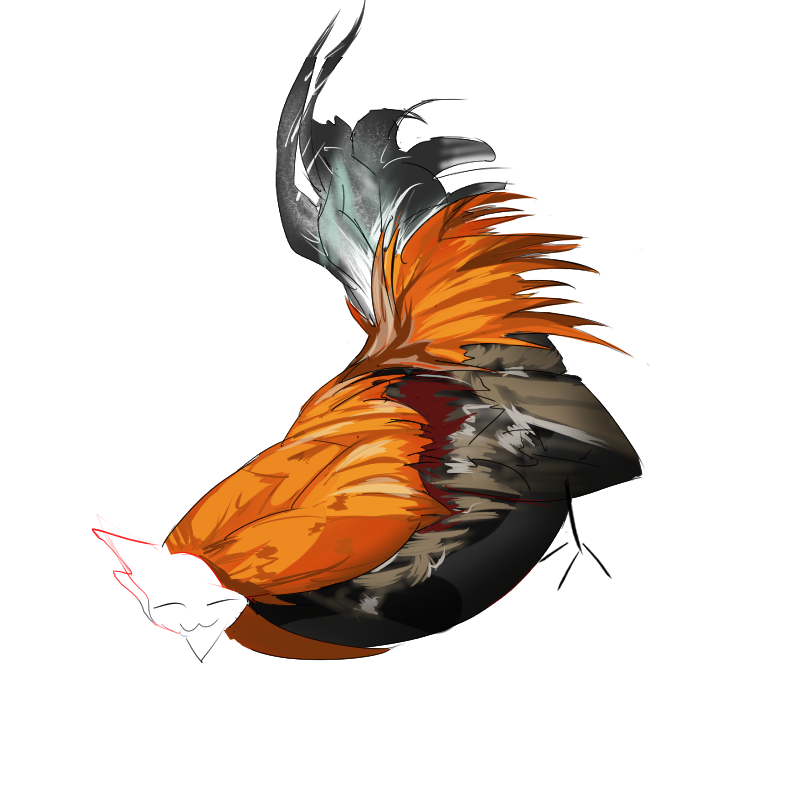
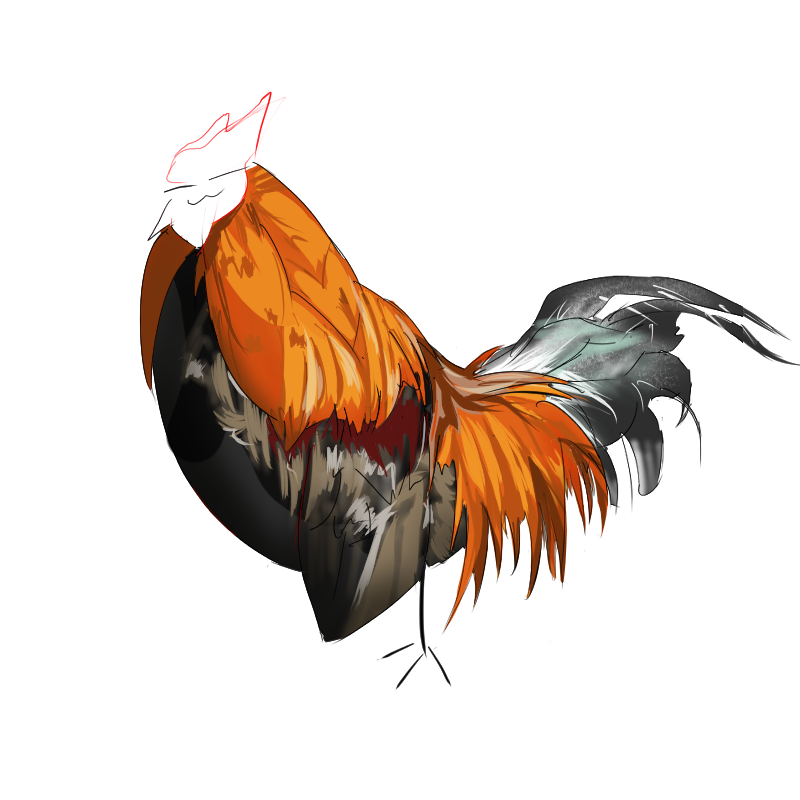
Update site layout and content

diff --git a/layouts/_partials/header.html b/layouts/_partials/header.html
@@ -1,0 +1,114 @@
+<header class="header">
+    <nav class="header-nav">
+        <div class="logo">
+            {{- $label_text := (site.Params.label.text | default site.Title) }}
+            {{- if site.Title }}
+            <span class="site-title">
+                {{- if site.Params.label.icon }}
+                {{- $img := resources.Get site.Params.label.icon }}
+                {{- if $img }}
+                    {{- $processableFormats := (slice "jpg" "jpeg" "png" "tif" "bmp" "gif") -}}
+                    {{- if hugo.IsExtended -}}
+                        {{- $processableFormats = $processableFormats | append "webp" -}}
+                    {{- end -}}
+                    {{- $prod := (hugo.IsProduction | or (eq site.Params.env "production")) }}
+                    {{- if and (in $processableFormats $img.MediaType.SubType) (eq $prod true)}}
+                        {{- if site.Params.label.iconHeight }}
+                            {{- $img = $img.Resize (printf "x%d" site.Params.label.iconHeight) }}
+                        {{ else }}
+                            {{- $img = $img.Resize "x30" }}
+                        {{- end }}
+                    {{- end }}
+                    <img src="{{ $img.Permalink }}" alt="" aria-label="logo"
+                        height="{{- site.Params.label.iconHeight | default "30" -}}">
+                {{- else }}
+                <img src="{{- site.Params.label.icon | absURL -}}" alt="" aria-label="logo"
+                    height="{{- site.Params.label.iconHeight | default "30" -}}">
+                {{- end -}}
+                {{- else if hasPrefix site.Params.label.iconSVG "<svg" }}
+                    {{ site.Params.label.iconSVG | safeHTML }}
+                {{- end -}}
+                {{- $label_text -}}
+            </span>
+            {{- end }}
+
+            {{- $lsenabled := (or (not site.Params.disableThemeToggle) (and (not site.Params.disableLangToggle) (hugo.IsMultilingual))) }}
+            {{- if $lsenabled }}
+            <div class="logo-switches">
+                {{- if (not site.Params.disableThemeToggle) }}
+                <button id="theme-toggle" class="theme-toggle" accesskey="t" title="(Alt + T)" aria-label="Toggle theme">
+                    <svg class="moon" xmlns="http://www.w3.org/2000/svg" width="17" height="17" viewBox="0 0 24 24"
+                        fill="none" stroke="currentColor" stroke-width="2" stroke-linecap="round"
+                        stroke-linejoin="round">
+                        <path d="M21 12.79A9 9 0 1 1 11.21 3 7 7 0 0 0 21 12.79z"></path>
+                    </svg>
+                    <svg class="sun" xmlns="http://www.w3.org/2000/svg" width="17" height="17" viewBox="0 0 24 24"
+                        fill="none" stroke="currentColor" stroke-width="2" stroke-linecap="round"
+                        stroke-linejoin="round">
+                        <circle cx="12" cy="12" r="5"></circle>
+                        <line x1="12" y1="1" x2="12" y2="3"></line>
+                        <line x1="12" y1="21" x2="12" y2="23"></line>
+                        <line x1="4.22" y1="4.22" x2="5.64" y2="5.64"></line>
+                        <line x1="18.36" y1="18.36" x2="19.78" y2="19.78"></line>
+                        <line x1="1" y1="12" x2="3" y2="12"></line>
+                        <line x1="21" y1="12" x2="23" y2="12"></line>
+                        <line x1="4.22" y1="19.78" x2="5.64" y2="18.36"></line>
+                        <line x1="18.36" y1="5.64" x2="19.78" y2="4.22"></line>
+                    </svg>
+                </button>
+                {{- end }}
+
+                {{- if (not site.Params.disableLangToggle) }}
+                    {{- $lang := .Lang}}
+                    {{- with site.Home.Translations }}
+                    {{- $separator := or $label_text (not site.Params.disableThemeToggle)}}
+                    {{- if $separator }}<span class="nav-sep">|</span>{{ end }}
+                    <ul class="lang-menu">
+                        {{- range . -}}
+                        {{- if ne $lang .Lang }}
+                        <li>
+                            <a href="{{- .Permalink -}}" title="{{ .Language.Params.languageAltTitle | default (.Language.LanguageName | emojify) | default (.Lang | title) }}"
+                                aria-label="{{ .Language.LanguageName | default (.Lang | title) }}">
+                                {{- if (and site.Params.displayFullLangName (.Language.LanguageName)) }}
+                                {{- .Language.LanguageName | emojify -}}
+                                {{- else }}
+                                {{- .Lang | title -}}
+                                {{- end -}}
+                            </a>
+                        </li>
+                        {{- end -}}
+                        {{- end}}
+                    </ul>
+                    {{- end }}
+                {{- end }}
+            </div>
+            {{- end }}
+        </div>
+        {{- $currentPage := . }}
+        <ul id="menu" class="menu">
+            {{- range site.Menus.main }}
+            {{- $menu_item_url := (cond (strings.HasSuffix .URL "/") .URL (printf "%s/" .URL) ) | absLangURL }}
+            {{- $page_url:= $currentPage.Permalink | absLangURL }}
+            {{- $is_search := eq (site.GetPage .KeyName).Layout `search` }}
+            <li>
+                <a href="{{ .URL | absLangURL }}" title="{{ .Title | default .Name }} {{- cond $is_search (" (Alt + /)" | safeHTMLAttr) ("" | safeHTMLAttr ) }}"
+                {{- cond $is_search (" accesskey=/" | safeHTMLAttr) ("" | safeHTMLAttr ) }}>
+                    <span {{- if eq $menu_item_url $page_url }} class="active" {{- end }}>
+                        {{- .Pre }}
+                        {{- .Name -}}
+                        {{ .Post -}}
+                    </span>
+                    {{- if (findRE "://" .URL) }}&nbsp;
+                    <svg fill="none" shape-rendering="geometricPrecision" stroke="currentColor" stroke-linecap="round"
+                        stroke-linejoin="round" stroke-width="2.5" viewBox="0 0 24 24" height="12" width="12">
+                        <path d="M18 13v6a2 2 0 01-2 2H5a2 2 0 01-2-2V8a2 2 0 012-2h6"></path>
+                        <path d="M15 3h6v6"></path>
+                        <path d="M10 14L21 3"></path>
+                    </svg>
+                    {{- end }}
+                </a>
+            </li>
+            {{- end }}
+        </ul>
+    </nav>
+</header>

diff --git a/layouts/home.html b/layouts/home.html
@@ -4,7 +4,7 @@
 {{- partial "index_profile.html" . }}
 {{- else }} {{/* if not profileMode */}}
 
-{{- if not .IsHome | and .Title }}
+{{- if .Title }}
 <header class="page-header">
   {{- partial "breadcrumbs.html" . }}
   <h1>
@@ -47,12 +47,6 @@
 
 {{- $paginator := .Paginate $pages.ByDate.Reverse 5 }}
 
-{{- if and .IsHome site.Params.homeInfoParams (eq $paginator.PageNumber 1) }}
-<div class="post-content md-content">
-  {{ site.Params.homeInfoParams.Content | .RenderString (dict "display" "block") }}
-</div>
-{{- end }}
-
 {{- $term := .Data.Term }}
 {{- range $index, $page := $paginator.Pages }}
 
@@ -62,10 +56,7 @@
 {{- end }}
 {{- $class := "post-entry" }}
 
-{{- $user_preferred := or site.Params.disableSpecial1stPost site.Params.homeInfoParams }}
-{{- if (and $.IsHome (eq $paginator.PageNumber 1) (eq $index 0) (not $user_preferred)) }}
-{{- $class = "first-entry" }}
-{{- else if $term }}
+{{- if $term }}
 {{- $class = "post-entry tag-entry" }}
 {{- end }}
 

diff --git a/assets/css/extended/site-title.css b/assets/css/extended/site-title.css
@@ -1,0 +1,7 @@
+.logo .site-title {
+    font-size: 24px;
+    font-weight: 700;
+    display: flex;
+    align-items: center;
+    column-gap: 0.55rem;
+}

diff --git a/content/art/20260912-084840/index.md b/content/art/20260912-084840/index.md
@@ -1,13 +1,13 @@
 +++
-title = "もちテスト"
+title = "もち"
 date = '2026-09-12T08:48:40.0321216+09:00'
 draft = false
 entryType = "image"
 
 [cover]
 image = "image.png"
-alt = "もちテスト"
+alt = "もち"
 hiddenInSingle = true
 +++
 
-![もちテスト](image.png)
+![もち](image.png)

diff --git a/content/notes/20260912-082334.md b/content/notes/20260912-082334.md
@@ -1,0 +1,8 @@
++++
+title = "顔が隠れるくらい髪が長い"
+date = '2026-09-05T21:30:33.0280078+09:00'
+draft = false
+entryType = "article"
++++
+
+意外といい香りがする

diff --git a/content/shorts/20260912-082251.md b/content/shorts/20260912-082251.md
@@ -1,5 +1,5 @@
 +++
-title = "一言鳥"
+title = "鳥が一言"
 date = '2026-09-12T08:22:51.6748813+09:00'
 draft = false
 entryType = "short"

diff --git a/content/notes/20260912-072513.md b/content/notes/20260912-072513.md
@@ -3,3 +3,5 @@ title = "ユキコさんテスト"
 date = '2026-09-12T07:25:13.4757126+09:00'
 draft = false
 +++
+
+投稿しました

diff --git a/content/about/_index.md b/content/about/_index.md
@@ -2,4 +2,4 @@
 title = 'About'
 +++
 
-![About](/images/about.png)
+![About](/images/about_skel.png)

diff --git a/content/shorts/_index.md b/content/shorts/_index.md
@@ -1,3 +1,5 @@
 +++
-title = '一言'
+title = 'Post'
 +++
+
+一言だけ

diff --git a/content/_index.md b/content/_index.md
@@ -1,0 +1,5 @@
++++
+title = "HOME"
++++
+
+いろいろありますね

diff --git a/content/tech/_index.md b/content/tech/_index.md
@@ -3,3 +3,5 @@
 title = 'Tech'
 
 +++
+
+作るかもしれない

diff --git a/content/projects/_index.md b/content/projects/_index.md
@@ -3,3 +3,5 @@
 title = 'Projects'
 
 +++
+
+長期的な
